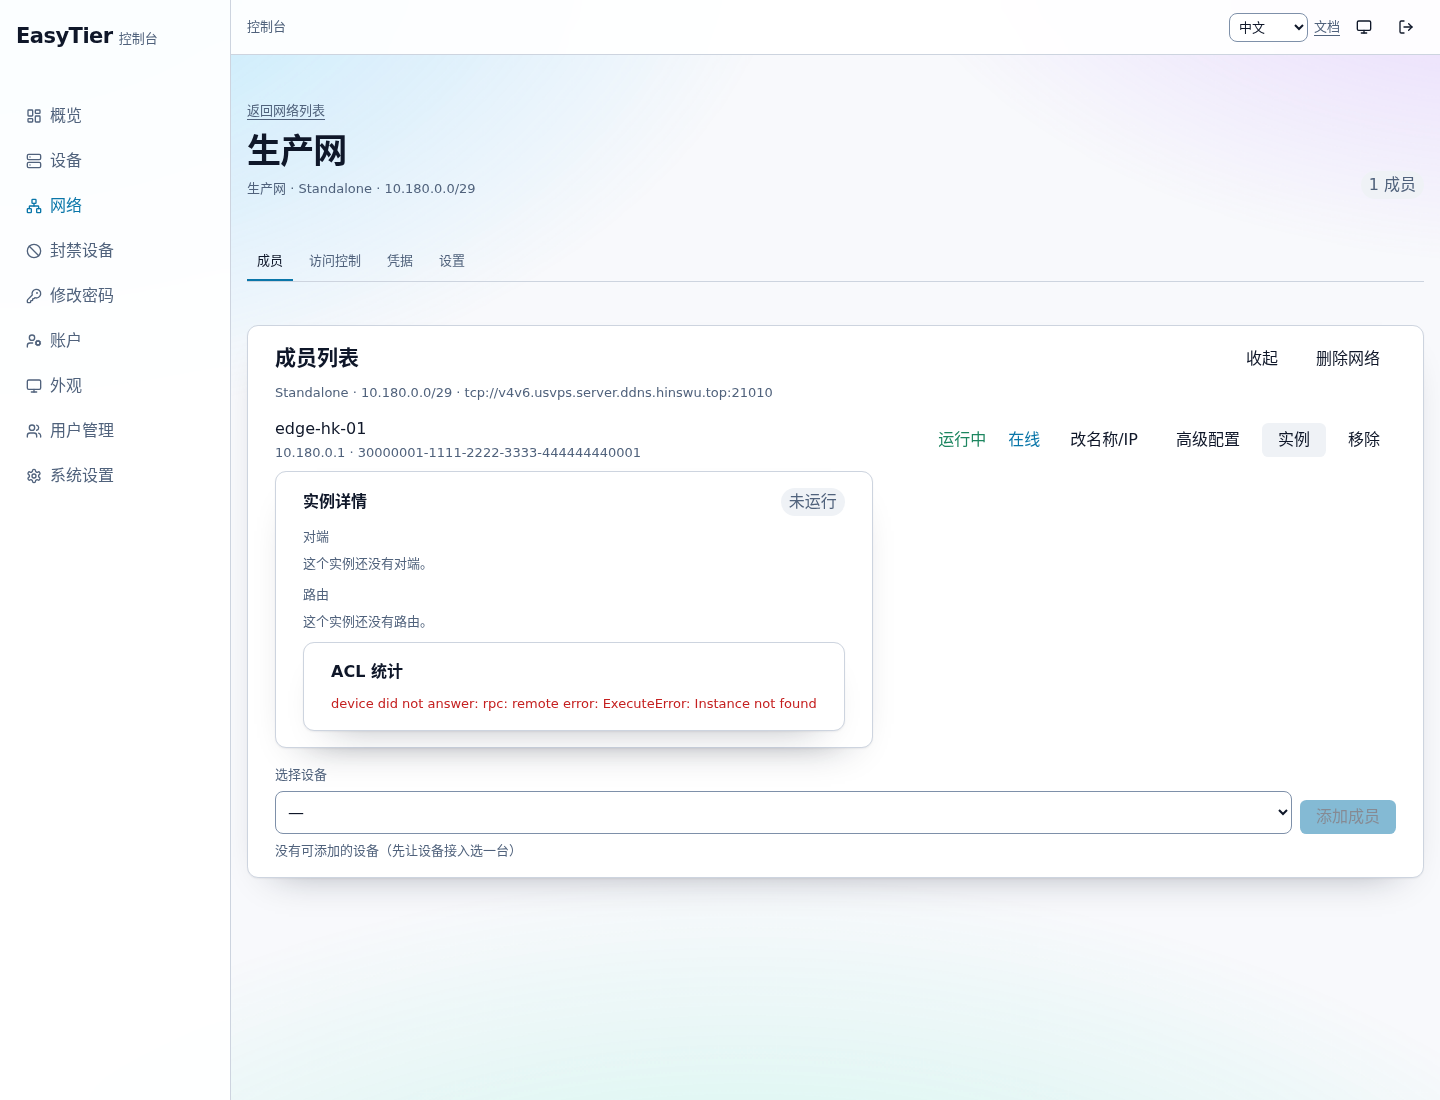
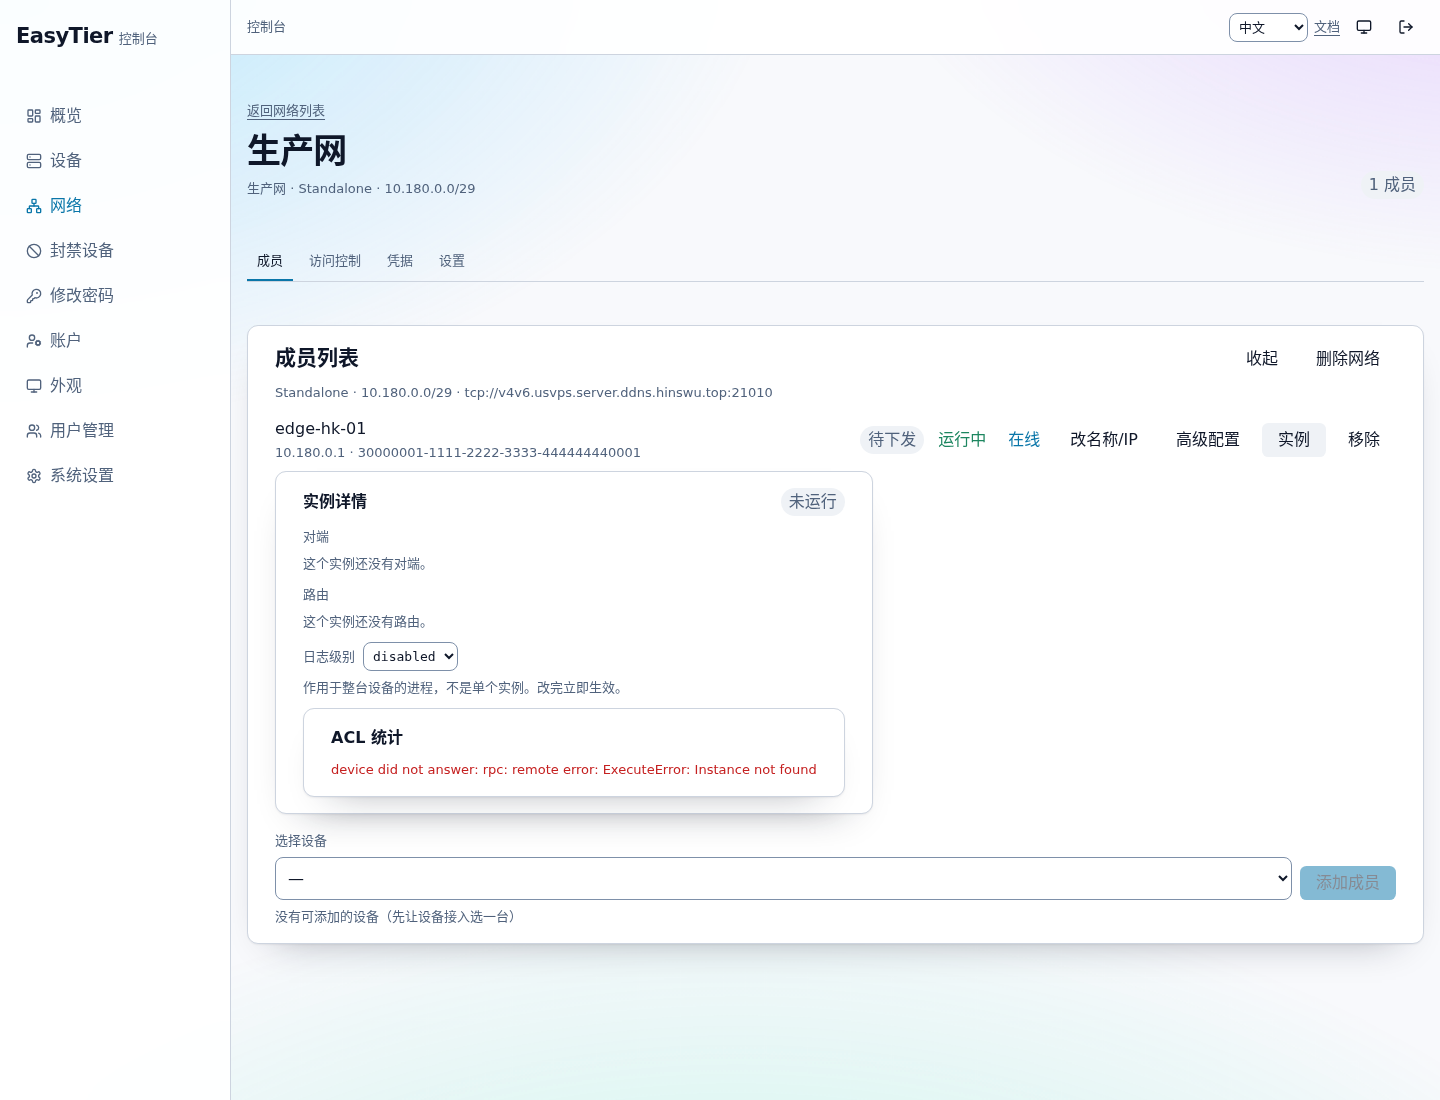
console: set the device log level, through a raw rpc channel
The logger service has no generated Go types here, so the mux and the session
manager gained a raw byte path and the payload is built from api_logger.proto.
The service key was the real obstacle: the registry answers to the short name
LoggerRpc, not the api.logger.* spelling from the method index.

Changed region(s): [[0.1875, 0.5873, 0.9688, 0.8655]]

diff --git a/client/src/features/networks/logger-level-panel.tsx b/client/src/features/networks/logger-level-panel.tsx
@@ -1,0 +1,55 @@
+import { useMutation, useQuery, useQueryClient } from '@tanstack/react-query';
+import { copy } from '../../copy/zh-CN';
+import { api } from '../../lib/http';
+import { Skeleton } from '../../ui';
+
+const LEVELS = ['disabled', 'error', 'warning', 'info', 'debug', 'trace'];
+
+/**
+ * The device's log level. It is per process, not per instance, so the label says
+ * so; the console does not have a per-instance switch to offer.
+ */
+export function LoggerLevelPanel({ machineID }: { machineID: string }) {
+  const queryClient = useQueryClient();
+  const level = useQuery({ queryKey: ['logger-level', machineID], queryFn: () => api.loggerLevel(machineID) });
+  const save = useMutation({
+    mutationFn: (next: string) => api.setLoggerLevel(machineID, next),
+    onSuccess: () => {
+      void queryClient.invalidateQueries({ queryKey: ['logger-level', machineID] });
+    },
+  });
+
+  if (level.isLoading) return <Skeleton className="h-[var(--u-10)]" />;
+  if (level.isError) {
+    return (
+      <p role="alert" className="text-phi-sm text-destructive">
+        {(level.error as Error).message}
+      </p>
+    );
+  }
+
+  const current = level.data ? level.data.level : 'disabled';
+
+  return (
+    <div className="space-y-[var(--u-2)]">
+      <div className="flex flex-wrap items-center gap-[var(--u-3)]">
+        <h4 className="text-phi-sm font-medium text-muted-foreground">{copy.networks.loggerTitle}</h4>
+        <select
+          aria-label={copy.networks.loggerTitle}
+          value={current}
+          onChange={(event) => save.mutate(event.target.value)}
+          className="rounded-[var(--radius)] border border-input bg-card p-[var(--u-1)] font-mono text-phi-sm"
+        >
+          {LEVELS.map((entry) => (
+            <option key={entry} value={entry}>
+              {entry}
+            </option>
+          ))}
+        </select>
+        {save.isError ? <span role="alert" className="text-phi-sm text-destructive">{(save.error as Error).message}</span> : null}
+        {save.isSuccess ? <span className="text-phi-sm text-muted-foreground">{copy.networks.loggerSaved}</span> : null}
+      </div>
+      <p className="text-phi-sm text-muted-foreground">{copy.networks.loggerHint}</p>
+    </div>
+  );
+}

diff --git a/client/src/features/networks/instance-detail-panel.tsx b/client/src/features/networks/instance-detail-panel.tsx
@@ -3,6 +3,7 @@ import { copy } from '../../copy/zh-CN';
 import { api, type InstancePeerConn } from '../../lib/http';
 import { Badge, Card, CardBody, Skeleton } from '../../ui';
 import { AclStatsPanel } from './acl-stats-panel';
+import { LoggerLevelPanel } from './logger-level-panel';
 
 const mb = (bytes?: number) => ((bytes ?? 0) / 1024 / 1024).toFixed(1) + ' MB';
 const ms = (micro?: number) => ((micro ?? 0) / 1000).toFixed(1) + ' ms';
@@ -128,6 +129,7 @@ export function InstanceDetailPanel({ machineID, instanceID }: { machineID: stri
             </div>
           )}
         </div>
+        <LoggerLevelPanel machineID={machineID} />
         <AclStatsPanel machineID={machineID} instanceID={instanceID} />
       </CardBody>
     </Card>

diff --git a/client/src/lib/http.ts b/client/src/lib/http.ts
@@ -264,6 +264,14 @@ export const api = {
     request<{ info?: Record<string, InstanceRunningInfo> }>(
       `/machines/${machineID}/networks/info/${instanceID}`,
     ),
+  // The log level belongs to the device process, not to one instance.
+  loggerLevel: (machineID: string) =>
+    request<{ level: string; value: number }>(`/machines/${machineID}/logger-level`),
+  setLoggerLevel: (machineID: string, level: string) =>
+    request<{ level: string; value: number }>(`/machines/${machineID}/logger-level`, {
+      method: "PUT",
+      body: JSON.stringify({ level }),
+    }),
   aclStats: (machineID: string, instanceID: string) =>
     request<AclStatsResponse>(
       `/machines/${machineID}/networks/info/${instanceID}/acl-stats`,

diff --git a/client/src/copy/zh-CN.ts b/client/src/copy/zh-CN.ts
@@ -109,6 +109,9 @@ export const copy = {
     unblock: '解除阻止',
   },
   networks: {
+    loggerTitle: '日志级别',
+    loggerHint: '作用于整台设备的进程，不是单个实例。改完立即生效。',
+    loggerSaved: '已更新日志级别',
     exportConfig: '导出配置',
     exportDone: '已导出',
     instanceDetail: '实例详情',

diff --git a/internal/legacyview/logger.go b/internal/legacyview/logger.go
@@ -1,0 +1,82 @@
+package legacyview
+
+import (
+	"context"
+	"fmt"
+
+	"google.golang.org/protobuf/encoding/protowire"
+
+	"github.com/easytier/easytier-console/internal/rpc"
+)
+
+// The logger service has no instance identifier: it sets the level of the
+// process that answers, so a device has one level for all of its instances.
+// Field numbers come from easytier-proto/proto/api_logger.proto:
+//
+//	enum LogLevel { DISABLED=0; ERROR=1; WARNING=2; INFO=3; DEBUG=4; TRACE=5; }
+//	message SetLoggerConfigRequest { LogLevel level = 1; }
+//	message GetLoggerConfigRequest {}
+//	message GetLoggerConfigResponse { LogLevel level = 1; }
+//
+// There is no generated package for it here, which is why the payload is built
+// with protowire instead of a struct.
+const (
+	MethodSetLoggerLevel uint32 = 1
+	MethodGetLoggerLevel uint32 = 2
+)
+
+// LoggerServiceKey addresses the per process logger service.
+var LoggerServiceKey = rpc.ServiceKey{ProtoName: "LoggerRpc", ServiceName: "LoggerRpc"}
+
+// LoggerLevels lists the levels in order, lowest first.
+var LoggerLevels = []string{"disabled", "error", "warning", "info", "debug", "trace"}
+
+// LoggerLevelName renders a level number. Unknown values pass through so the UI
+// shows what the device claims rather than hiding it.
+func LoggerLevelName(level int) string {
+	if level >= 0 && level < len(LoggerLevels) {
+		return LoggerLevels[level]
+	}
+	return fmt.Sprintf("level-%d", level)
+}
+
+// LoggerLevelValue turns a name into its enum number.
+func LoggerLevelValue(name string) (int, bool) {
+	for value, candidate := range LoggerLevels {
+		if candidate == name {
+			return value, true
+		}
+	}
+	return 0, false
+}
+
+// GetLoggerLevel reads the level the device currently runs with.
+func (s *Service) GetLoggerLevel(ctx context.Context, userID int64, machineID string) (int, error) {
+	body, err := s.Caller.CallRaw(ctx, userID, machineID, LoggerServiceKey, MethodGetLoggerLevel, nil)
+	if err != nil {
+		return 0, err
+	}
+	if len(body) == 0 {
+		return 0, nil
+	}
+	number, _, n := protowire.ConsumeTag(body)
+	if n < 0 {
+		return 0, fmt.Errorf("legacyview: decode logger level tag: %w", protowire.ParseError(n))
+	}
+	if protowire.Number(number) != 1 {
+		return 0, nil
+	}
+	value, m := protowire.ConsumeVarint(body[n:])
+	if m < 0 {
+		return 0, fmt.Errorf("legacyview: decode logger level: %w", protowire.ParseError(m))
+	}
+	return int(value), nil
+}
+
+// SetLoggerLevel writes the level the device should run with.
+func (s *Service) SetLoggerLevel(ctx context.Context, userID int64, machineID string, level int) error {
+	payload := protowire.AppendTag(nil, 1, protowire.VarintType)
+	payload = protowire.AppendVarint(payload, uint64(level))
+	_, err := s.Caller.CallRaw(ctx, userID, machineID, LoggerServiceKey, MethodSetLoggerLevel, payload)
+	return err
+}

diff --git a/internal/legacyview/logger_test.go b/internal/legacyview/logger_test.go
@@ -1,0 +1,79 @@
+package legacyview
+
+import (
+	"context"
+	"testing"
+
+	"google.golang.org/protobuf/proto"
+
+	"github.com/easytier/easytier-console/internal/rpc"
+)
+
+// loggerCaller records what the service sends so the field numbers can be
+// checked against api_logger.proto without a device.
+type loggerCaller struct {
+	key    rpc.ServiceKey
+	method uint32
+	raw    []byte
+	reply  []byte
+}
+
+func (c *loggerCaller) Call(context.Context, int64, string, rpc.ServiceKey, uint32, proto.Message) ([]byte, error) {
+	return nil, nil
+}
+
+func (c *loggerCaller) CallRaw(_ context.Context, _ int64, _ string, key rpc.ServiceKey, method uint32, raw []byte) ([]byte, error) {
+	c.key = key
+	c.method = method
+	c.raw = append([]byte(nil), raw...)
+	return c.reply, nil
+}
+
+func TestSetLoggerLevelEncodesFieldOne(t *testing.T) {
+	caller := &loggerCaller{}
+	service := New(caller)
+	if err := service.SetLoggerLevel(context.Background(), 1, "machine", 4); err != nil {
+		t.Fatalf("SetLoggerLevel: %v", err)
+	}
+	if caller.key.ServiceName != "LoggerRpc" {
+		t.Fatalf("service name = %q", caller.key.ServiceName)
+	}
+	if caller.method != MethodSetLoggerLevel {
+		t.Fatalf("method = %d, want %d", caller.method, MethodSetLoggerLevel)
+	}
+	// field 1, varint, value 4 (debug)
+	want := []byte{0x08, 0x04}
+	if len(caller.raw) != len(want) || caller.raw[0] != want[0] || caller.raw[1] != want[1] {
+		t.Fatalf("payload = %v, want %v", caller.raw, want)
+	}
+}
+
+func TestGetLoggerLevelDecodesFieldOne(t *testing.T) {
+	caller := &loggerCaller{reply: []byte{0x08, 0x02}}
+	service := New(caller)
+	level, err := service.GetLoggerLevel(context.Background(), 1, "machine")
+	if err != nil {
+		t.Fatalf("GetLoggerLevel: %v", err)
+	}
+	if level != 2 {
+		t.Fatalf("level = %d, want 2", level)
+	}
+	if caller.method != MethodGetLoggerLevel {
+		t.Fatalf("method = %d, want %d", caller.method, MethodGetLoggerLevel)
+	}
+}
+
+func TestLoggerLevelNamesRoundTrip(t *testing.T) {
+	for value, name := range LoggerLevels {
+		got, ok := LoggerLevelValue(name)
+		if !ok || got != value {
+			t.Fatalf("LoggerLevelValue(%q) = %d, %v", name, got, ok)
+		}
+		if LoggerLevelName(value) != name {
+			t.Fatalf("LoggerLevelName(%d) = %q", value, LoggerLevelName(value))
+		}
+	}
+	if _, ok := LoggerLevelValue("verbose"); ok {
+		t.Fatal("unknown level accepted")
+	}
+}

diff --git a/internal/httpapi/logger_level.go b/internal/httpapi/logger_level.go
@@ -1,0 +1,43 @@
+package httpapi
+
+import (
+	"net/http"
+
+	"github.com/easytier/easytier-console/internal/db/bal"
+	"github.com/easytier/easytier-console/internal/legacyview"
+)
+
+// handleGetLoggerLevel reads the log level of the device process. The level is
+// per process, not per instance: every instance on that device shares it.
+func (s *Server) handleGetLoggerLevel(w http.ResponseWriter, r *http.Request, user bal.User) {
+	level, err := s.legacyView().GetLoggerLevel(r.Context(), user.ID, r.PathValue("machineID"))
+	if err != nil {
+		writeError(w, http.StatusBadGateway, "device did not answer: "+err.Error())
+		return
+	}
+	writeJSON(w, http.StatusOK, map[string]any{
+		"level": legacyview.LoggerLevelName(level),
+		"value": level,
+	})
+}
+
+// handlePutLoggerLevel sets the level. An unknown name is a client error rather
+// than a silent default, because picking the wrong level changes what is logged.
+func (s *Server) handlePutLoggerLevel(w http.ResponseWriter, r *http.Request, user bal.User) {
+	var payload struct {
+		Level string `json:"level"`
+	}
+	if err := decodeJSON(w, r, &payload); err != nil {
+		return
+	}
+	value, ok := legacyview.LoggerLevelValue(payload.Level)
+	if !ok {
+		writeError(w, http.StatusBadRequest, "unknown log level")
+		return
+	}
+	if err := s.legacyView().SetLoggerLevel(r.Context(), user.ID, r.PathValue("machineID"), value); err != nil {
+		writeError(w, http.StatusBadGateway, "device did not answer: "+err.Error())
+		return
+	}
+	writeJSON(w, http.StatusOK, map[string]any{"level": payload.Level, "value": value})
+}

diff --git a/internal/session/manager.go b/internal/session/manager.go
@@ -386,6 +386,26 @@ func wantsAnotherProtoName(err error) bool {
 	return strings.Contains(err.Error(), "InvalidService")
 }
 
+// CallRaw is Call for services whose proto has no generated Go types here: the
+// caller supplies the encoded request instead of a message.
+func (m *Manager) CallRaw(ctx context.Context, userID int64, machineID string, key rpc.ServiceKey, method uint32, raw []byte) ([]byte, error) {
+	session, ok := m.ByMachine(userID, machineID)
+	if !ok {
+		return nil, bal.ErrNotFound
+	}
+	session.mu.Lock()
+	preferred := session.protoName
+	preferredService := session.serviceName
+	session.mu.Unlock()
+	if preferred != "" {
+		key.ProtoName = preferred
+	}
+	if preferredService != "" {
+		key.ServiceName = preferredService
+	}
+	return session.mux.CallRaw(ctx, key, method, raw)
+}
+
 func (m *Manager) Call(ctx context.Context, userID int64, machineID string, key rpc.ServiceKey, method uint32, req proto.Message) ([]byte, error) {
 	session, ok := m.ByMachine(userID, machineID)
 	if !ok {

diff --git a/internal/httpapi/router.go b/internal/httpapi/router.go
@@ -140,6 +140,8 @@ func (s *Server) routes() {
 	s.mux.HandleFunc("GET /api/v1/machines/{machineID}/networks/info", s.requireUser(s.handleLegacyCollectInfo))
 	s.mux.HandleFunc("GET /api/v1/machines/{machineID}/networks/info/{instanceID}", s.requireUser(s.handleLegacyCollectInfo))
 	s.mux.HandleFunc("GET /api/v1/machines/{machineID}/networks/info/{instanceID}/acl-stats", s.requireUser(s.handleLegacyAclStats))
+	s.mux.HandleFunc("GET /api/v1/machines/{machineID}/logger-level", s.requireUser(s.handleGetLoggerLevel))
+	s.mux.HandleFunc("PUT /api/v1/machines/{machineID}/logger-level", s.requireUser(s.handlePutLoggerLevel))
 	s.mux.HandleFunc("POST /api/v1/machines/{machineID}/networks/metas", s.requireUser(s.handleLegacyMetas))
 	s.mux.HandleFunc("GET /api/v1/machines/{machineID}/networks/config/{instanceID}", s.requireUser(s.handleLegacyGetConfig))
 	s.mux.HandleFunc("DELETE /api/v1/machines/{machineID}/networks/{instanceID}", s.requireUser(s.handleLegacyDeleteInstance))

diff --git a/internal/rpc/mux.go b/internal/rpc/mux.go
@@ -450,6 +450,13 @@ func (m *Mux) Call(ctx context.Context, key ServiceKey, methodIndex uint32, req 
 	if err != nil {
 		return nil, fmt.Errorf("rpc: encode request: %w", err)
 	}
+	return m.CallRaw(ctx, key, methodIndex, raw)
+}
+
+// CallRaw sends an already encoded request. Services whose proto has no generated
+// Go types in this repository (the logger is one) can still be reached this way;
+// the caller is responsible for the field numbers matching the .proto file.
+func (m *Mux) CallRaw(ctx context.Context, key ServiceKey, methodIndex uint32, raw []byte) ([]byte, error) {
 	envelope, err := proto.Marshal(&common.RpcRequest{Request: raw})
 	if err != nil {
 		return nil, fmt.Errorf("rpc: encode RpcRequest: %w", err)

diff --git a/internal/legacyview/legacyview.go b/internal/legacyview/legacyview.go
@@ -24,6 +24,9 @@ import (
 // Caller reaches a connected device. session.Manager satisfies it.
 type Caller interface {
 	Call(ctx context.Context, userID int64, machineID string, key rpc.ServiceKey, method uint32, req proto.Message) ([]byte, error)
+	// CallRaw sends an encoded request. The logger service has no generated Go
+	// types in this repository, so its payload is built from the .proto field numbers.
+	CallRaw(ctx context.Context, userID int64, machineID string, key rpc.ServiceKey, method uint32, raw []byte) ([]byte, error)
 }
 
 // Service answers the device-first endpoints.

diff --git a/internal/legacyview/legacyview_test.go b/internal/legacyview/legacyview_test.go
@@ -31,6 +31,12 @@ func (s *stubCaller) Call(_ context.Context, _ int64, _ string, key rpc.ServiceK
 	return s.body, s.err
 }
 
+// CallRaw exists so the stub satisfies the interface; the logger tests use their
+// own caller because they care about the bytes.
+func (s *stubCaller) CallRaw(context.Context, int64, string, rpc.ServiceKey, uint32, []byte) ([]byte, error) {
+	return nil, nil
+}
+
 const instanceID = "11111111-2222-3333-4444-555555555555"
 
 // TestAdapterUsesTheClientServiceMethods covers the device-first endpoints: each
